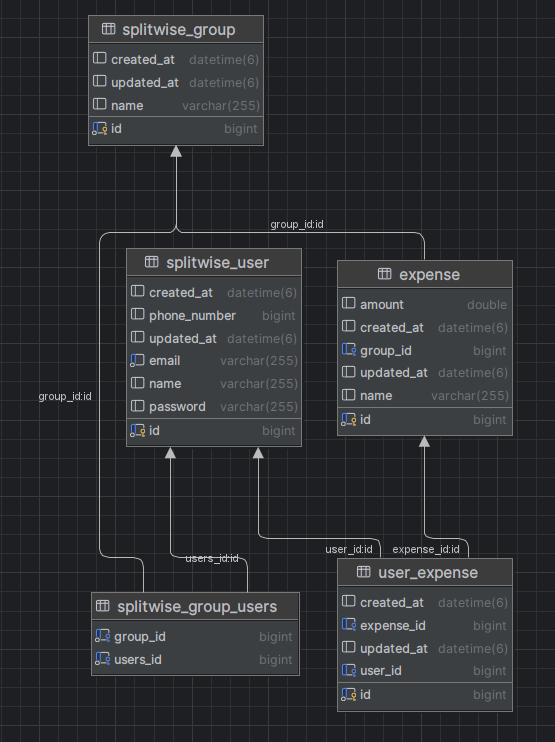
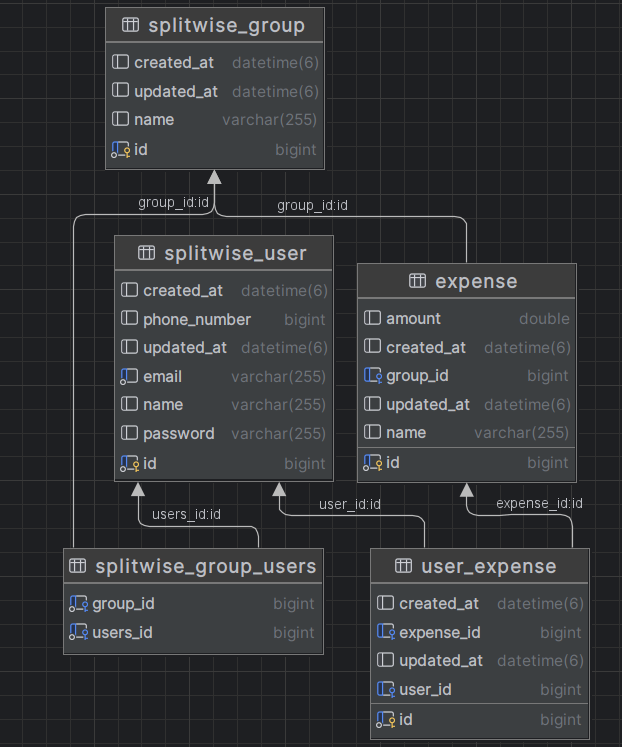
Alter exceptions and enhance group controllers

Changed region(s): [[0.0613, 0.0, 0.9495, 0.9919], [0.6126, 0.279, 0.6432, 0.31], [0.1225, 0.279, 0.1532, 0.31]]

diff --git a/src/main/java/com/example/splitwise/services/GroupService.java b/src/main/java/com/example/splitwise/services/GroupService.java
@@ -1,6 +1,7 @@
 package com.example.splitwise.services;
 
 import com.example.splitwise.exceptions.GroupNotExist;
+import com.example.splitwise.exceptions.UserAlreadyInGroup;
 import com.example.splitwise.exceptions.UserNotExist;
 import com.example.splitwise.models.Group;
 import com.example.splitwise.models.User;
@@ -28,26 +29,30 @@ public class GroupService {
         return groupRepository.save(group);
     }
 
-    public Group addToGroup(Long groupId, List<Long> usersIds) throws GroupNotExist, UserNotExist {
+    public Group addToGroup(Long groupId, List<Long> usersIds) throws GroupNotExist, UserNotExist, UserAlreadyInGroup {
         List<User> userList = userRepository.findAllById(usersIds);
         Optional<Group> findGroup = groupRepository.findById(groupId);
         if(findGroup.isEmpty()) {
-            throw new GroupNotExist();
+            throw new GroupNotExist("Group does exist");
         }
         Group group = findGroup.get();
         if(usersIds.size() != userList.size()) {
             throw new UserNotExist("User(s) not found");
         }
         List<User> existingUsers = group.getUsers();
+        boolean inserted = false;
         for(User user : userList) {
             if(!existingUsers.contains(user)) {
                 existingUsers.add(user);
+                inserted = true;
             }
             else{
-                System.out.println("User already added to group");
+                throw new UserAlreadyInGroup("User already part of the group");
             }
         }
-        group.setUsers(existingUsers);
-        return groupRepository.save(group);
+        if(inserted) {
+            group.setUsers(existingUsers);  // Save to database only if a user is saved.
+        }
+        return inserted ? groupRepository.save(group) : null;
     }
 }

diff --git a/src/main/java/com/example/splitwise/controllers/GroupController.java b/src/main/java/com/example/splitwise/controllers/GroupController.java
@@ -4,6 +4,7 @@ import com.example.splitwise.dtos.GroupAddUsersRequest;
 import com.example.splitwise.dtos.GroupRequest;
 import com.example.splitwise.dtos.GroupResponse;
 import com.example.splitwise.exceptions.GroupNotExist;
+import com.example.splitwise.exceptions.UserAlreadyInGroup;
 import com.example.splitwise.exceptions.UserNotExist;
 import com.example.splitwise.models.Group;
 import com.example.splitwise.services.GroupService;
@@ -30,8 +31,8 @@ public class GroupController {
     }
 
     @PatchMapping("/addusers")
-    @ResponseStatus(HttpStatus.CREATED)
-    public @ResponseBody boolean addUsers(@RequestBody GroupAddUsersRequest request) throws GroupNotExist, UserNotExist {
+    @ResponseStatus(HttpStatus.ACCEPTED)
+    public @ResponseBody boolean addUsers(@RequestBody GroupAddUsersRequest request) throws GroupNotExist, UserNotExist, UserAlreadyInGroup {
         Group addedToGroup = groupService.addToGroup(request.getGroupId(), request.getUserIds());
         return addedToGroup != null;
     }

diff --git a/src/main/java/com/example/splitwise/services/UserService.java b/src/main/java/com/example/splitwise/services/UserService.java
@@ -20,7 +20,7 @@ public class UserService {
         // Check if user exists
         Optional<User> checkUser = userRepository.findByEmail(email);
         if(checkUser.isPresent()) {
-            throw new UserAlreadyExists();
+            throw new UserAlreadyExists("User already exists, try using different email address");
         }
         User user = User.builder()
                 .email(email)

diff --git a/src/main/java/com/example/splitwise/exceptions/UserAlreadyExists.java b/src/main/java/com/example/splitwise/exceptions/UserAlreadyExists.java
@@ -1,7 +1,7 @@
 package com.example.splitwise.exceptions;
 
 public class UserAlreadyExists extends Exception {
-    public UserAlreadyExists() {
-        super("User already exists, try using different email address");
+    public UserAlreadyExists(String message) {
+        super(message);
     }
 }

diff --git a/src/main/java/com/example/splitwise/exceptions/GroupNotExist.java b/src/main/java/com/example/splitwise/exceptions/GroupNotExist.java
@@ -1,7 +1,7 @@
 package com.example.splitwise.exceptions;
 
 public class GroupNotExist extends Exception {
-    public GroupNotExist() {
-        super("Group Not Exist");
+    public GroupNotExist(String message) {
+        super(message);
     }
 }

diff --git a/src/main/java/com/example/splitwise/exceptions/UserAlreadyInGroup.java b/src/main/java/com/example/splitwise/exceptions/UserAlreadyInGroup.java
@@ -1,0 +1,7 @@
+package com.example.splitwise.exceptions;
+
+public class UserAlreadyInGroup extends Exception {
+    public UserAlreadyInGroup(String message) {
+        super(message);
+    }
+}
